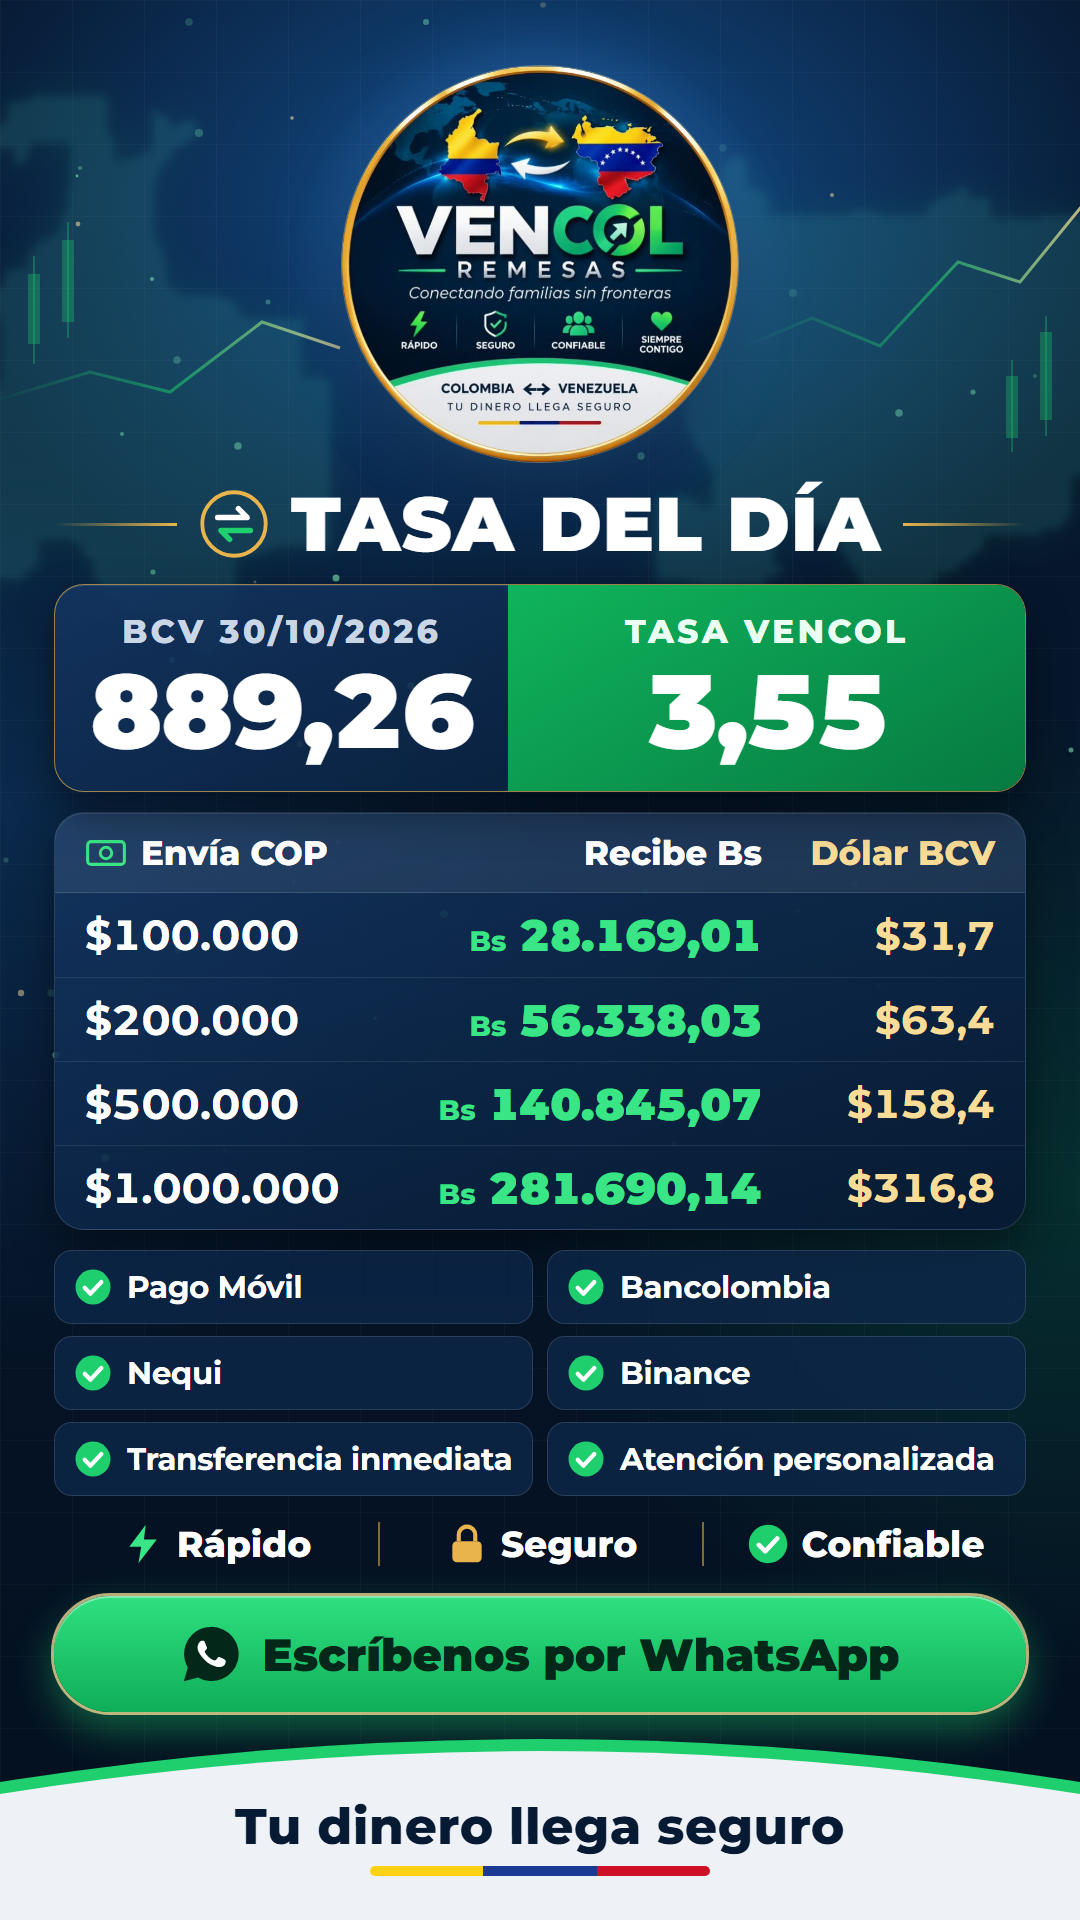
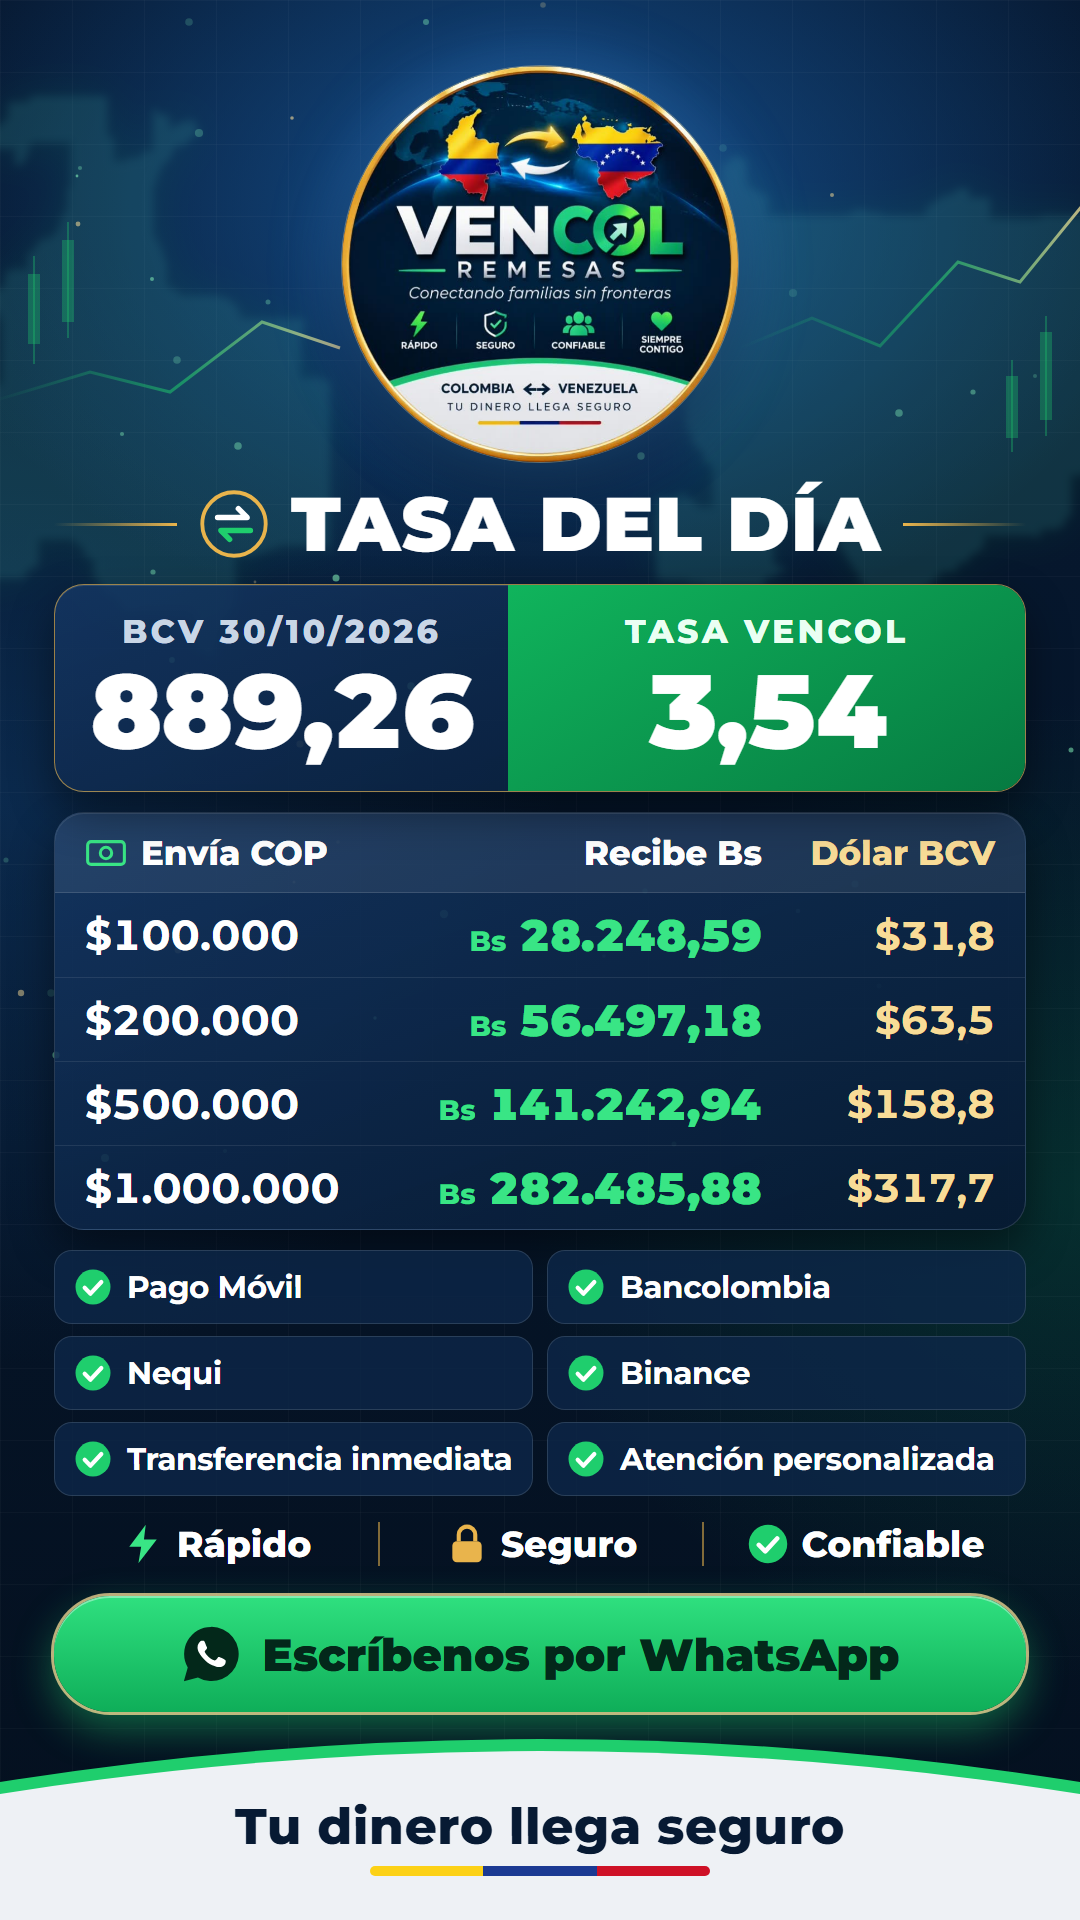
Cargar siempre la tasa más reciente

diff --git a/banner-tasa-del-dia.html b/banner-tasa-del-dia.html
@@ -210,7 +210,6 @@
   </footer>
 </main>
 
-<script src="datos.js"></script>
 <script>
   // Ajusta la pieza de 1080 px al ancho de la pantalla
   const ajustar = () => { document.documentElement.style.zoom = Math.min(1, document.documentElement.clientWidth / 1080); };
@@ -219,6 +218,7 @@
 
   const MONTOS = [100000, 200000, 500000, 1000000];
   const num = (v, d) => v.toLocaleString('es-CO', { minimumFractionDigits: d, maximumFractionDigits: d });
+  const pintar = () => {
   document.getElementById('bcv').textContent = num(BCV, 2);
   document.getElementById('tasa').textContent = num(TASA, 2);
   document.getElementById('fecha').textContent = FECHA;
@@ -226,6 +226,13 @@
     const bs = cop / TASA;
     return `<div class="row"><span>$${num(cop, 0)}</span><span class="bs"><small>Bs</small> ${num(bs, 2)}</span><span class="bcv">$${num(bs / BCV, 1)}</span></div>`;
   }).join('');
+  };
+
+  // Pide siempre la tasa más reciente, sin usar la copia guardada del navegador
+  const datos = document.createElement('script');
+  datos.src = `datos.js?t=${Date.now()}`;
+  datos.onload = pintar;
+  document.head.append(datos);
 
   // Check verde común a todos los servicios
   const check = '<svg viewBox="0 0 48 48" fill="none" aria-hidden="true"><circle cx="24" cy="24" r="21" fill="#1fce6d"/><path d="m14 25 7 7 13-14" stroke="#fff" stroke-width="5" stroke-linecap="round" stroke-linejoin="round"/></svg>';

diff --git a/tabla-completa.html b/tabla-completa.html
@@ -64,7 +64,6 @@
     <div class="tri"><i style="background:#fcd116"></i><i style="background:#1b3a93"></i><i style="background:#ce1126"></i></div>
   </footer>
 </main>
-<script src="datos.js"></script>
 <script>
   // Ajusta la pieza de 1080 px al ancho de la pantalla
   const ajustar = () => { document.documentElement.style.zoom = Math.min(1, document.documentElement.clientWidth / 1080); };
@@ -73,6 +72,7 @@
 
   const MONTOS = [20000, 30000, 40000, 50000, 60000, 70000, 80000, 90000, 100000, 150000, 200000, 250000, 300000, 400000, 500000, 1000000];
   const num = (v, d) => v.toLocaleString('es-CO', { minimumFractionDigits: d, maximumFractionDigits: d });
+  const pintar = () => {
   document.getElementById('tasa').textContent = `Tasa ${num(TASA, 2)}`;
   document.getElementById('bcv').textContent = `BCV ${num(BCV, 2)}`;
   document.getElementById('fecha').textContent = `Vigente ${FECHA}`;
@@ -80,6 +80,13 @@
     const bs = cop / TASA;
     return `<div class="fila"><span>$${num(cop, 0)}</span><span><small>Bs</small> ${num(bs, 2)}</span><span>$${num(bs / BCV, 1)}</span></div>`;
   }).join('');
+  };
+
+  // Pide siempre la tasa más reciente, sin usar la copia guardada del navegador
+  const datos = document.createElement('script');
+  datos.src = `datos.js?t=${Date.now()}`;
+  datos.onload = pintar;
+  document.head.append(datos);
 </script>
 </body>
 </html>

diff --git a/admin.html b/admin.html
@@ -195,7 +195,7 @@
       if (!r.ok) throw new Error(String(r.status));
       publicado = { bcv, tasa, fecha };
       mostrarVigente();
-      aviso('Tasa guardada. Se verá en los enlaces en unos minutos.', 'ok');
+      aviso('Tasa guardada. En 1 o 2 minutos recarga el enlace para verla.', 'ok');
     } catch (err) {
       const msg = { 401: 'La clave no es válida o venció.', 403: 'La clave no tiene permiso para este repositorio.', 404: 'La clave no tiene acceso a este repositorio.', 409: 'Hubo otro cambio al mismo tiempo. Pulsa Publicar otra vez.' }[err.message];
       aviso(msg || 'No se pudo publicar. Revisa tu conexión e intenta de nuevo.', 'bad');
